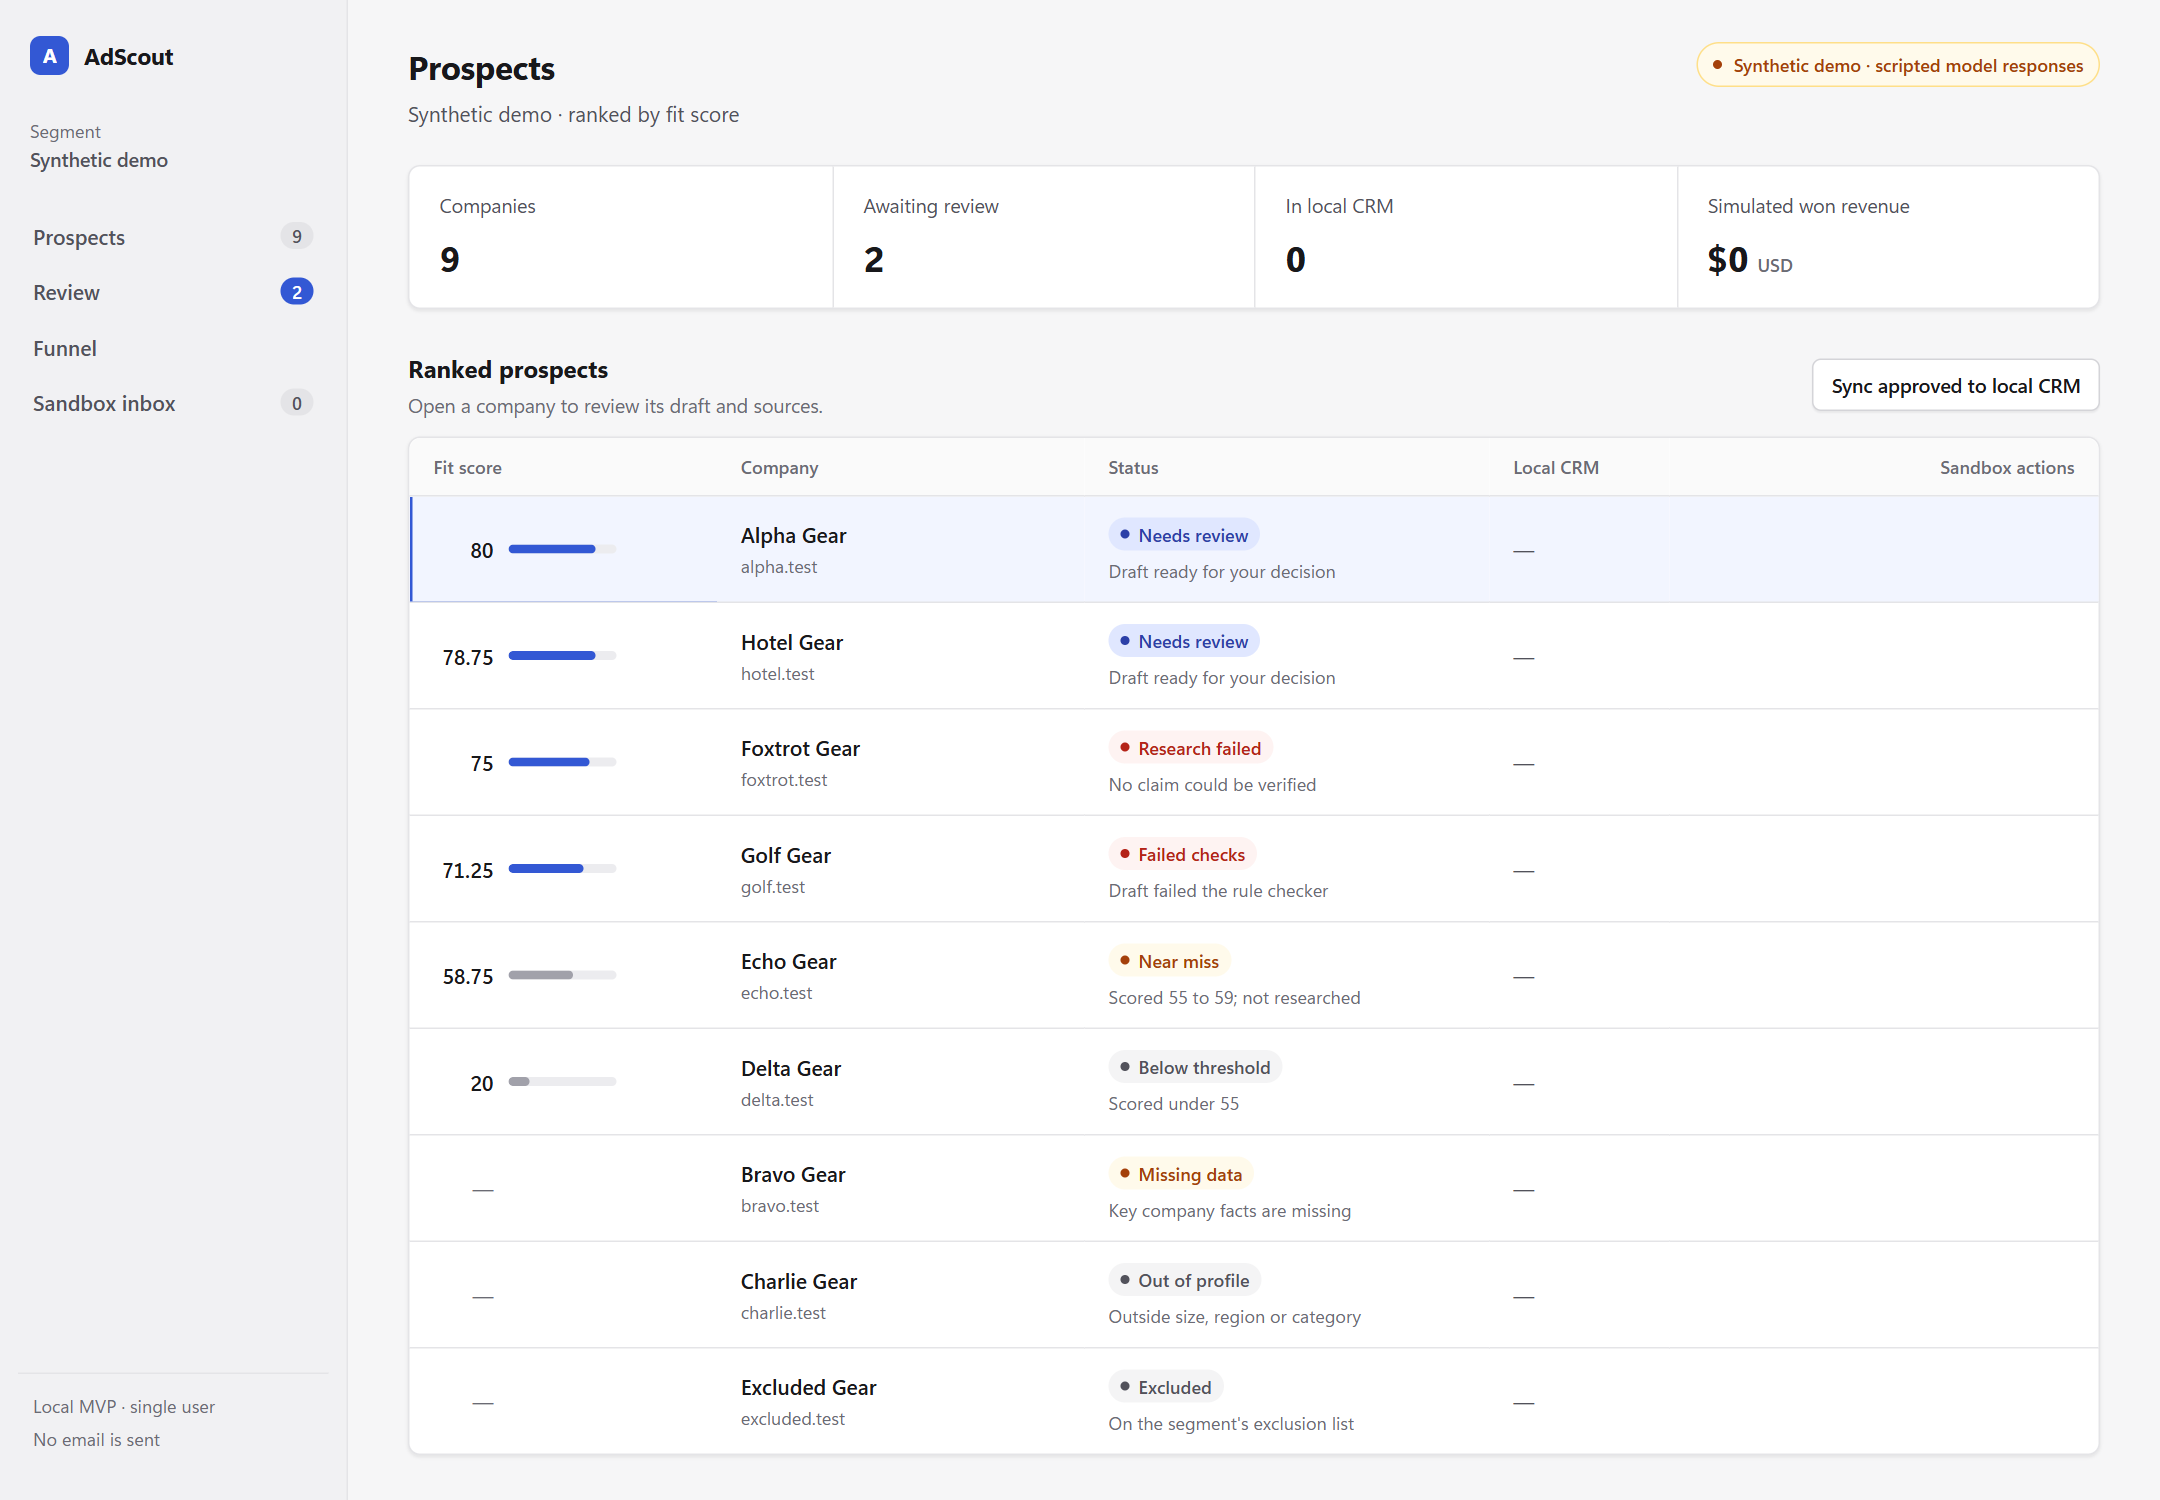
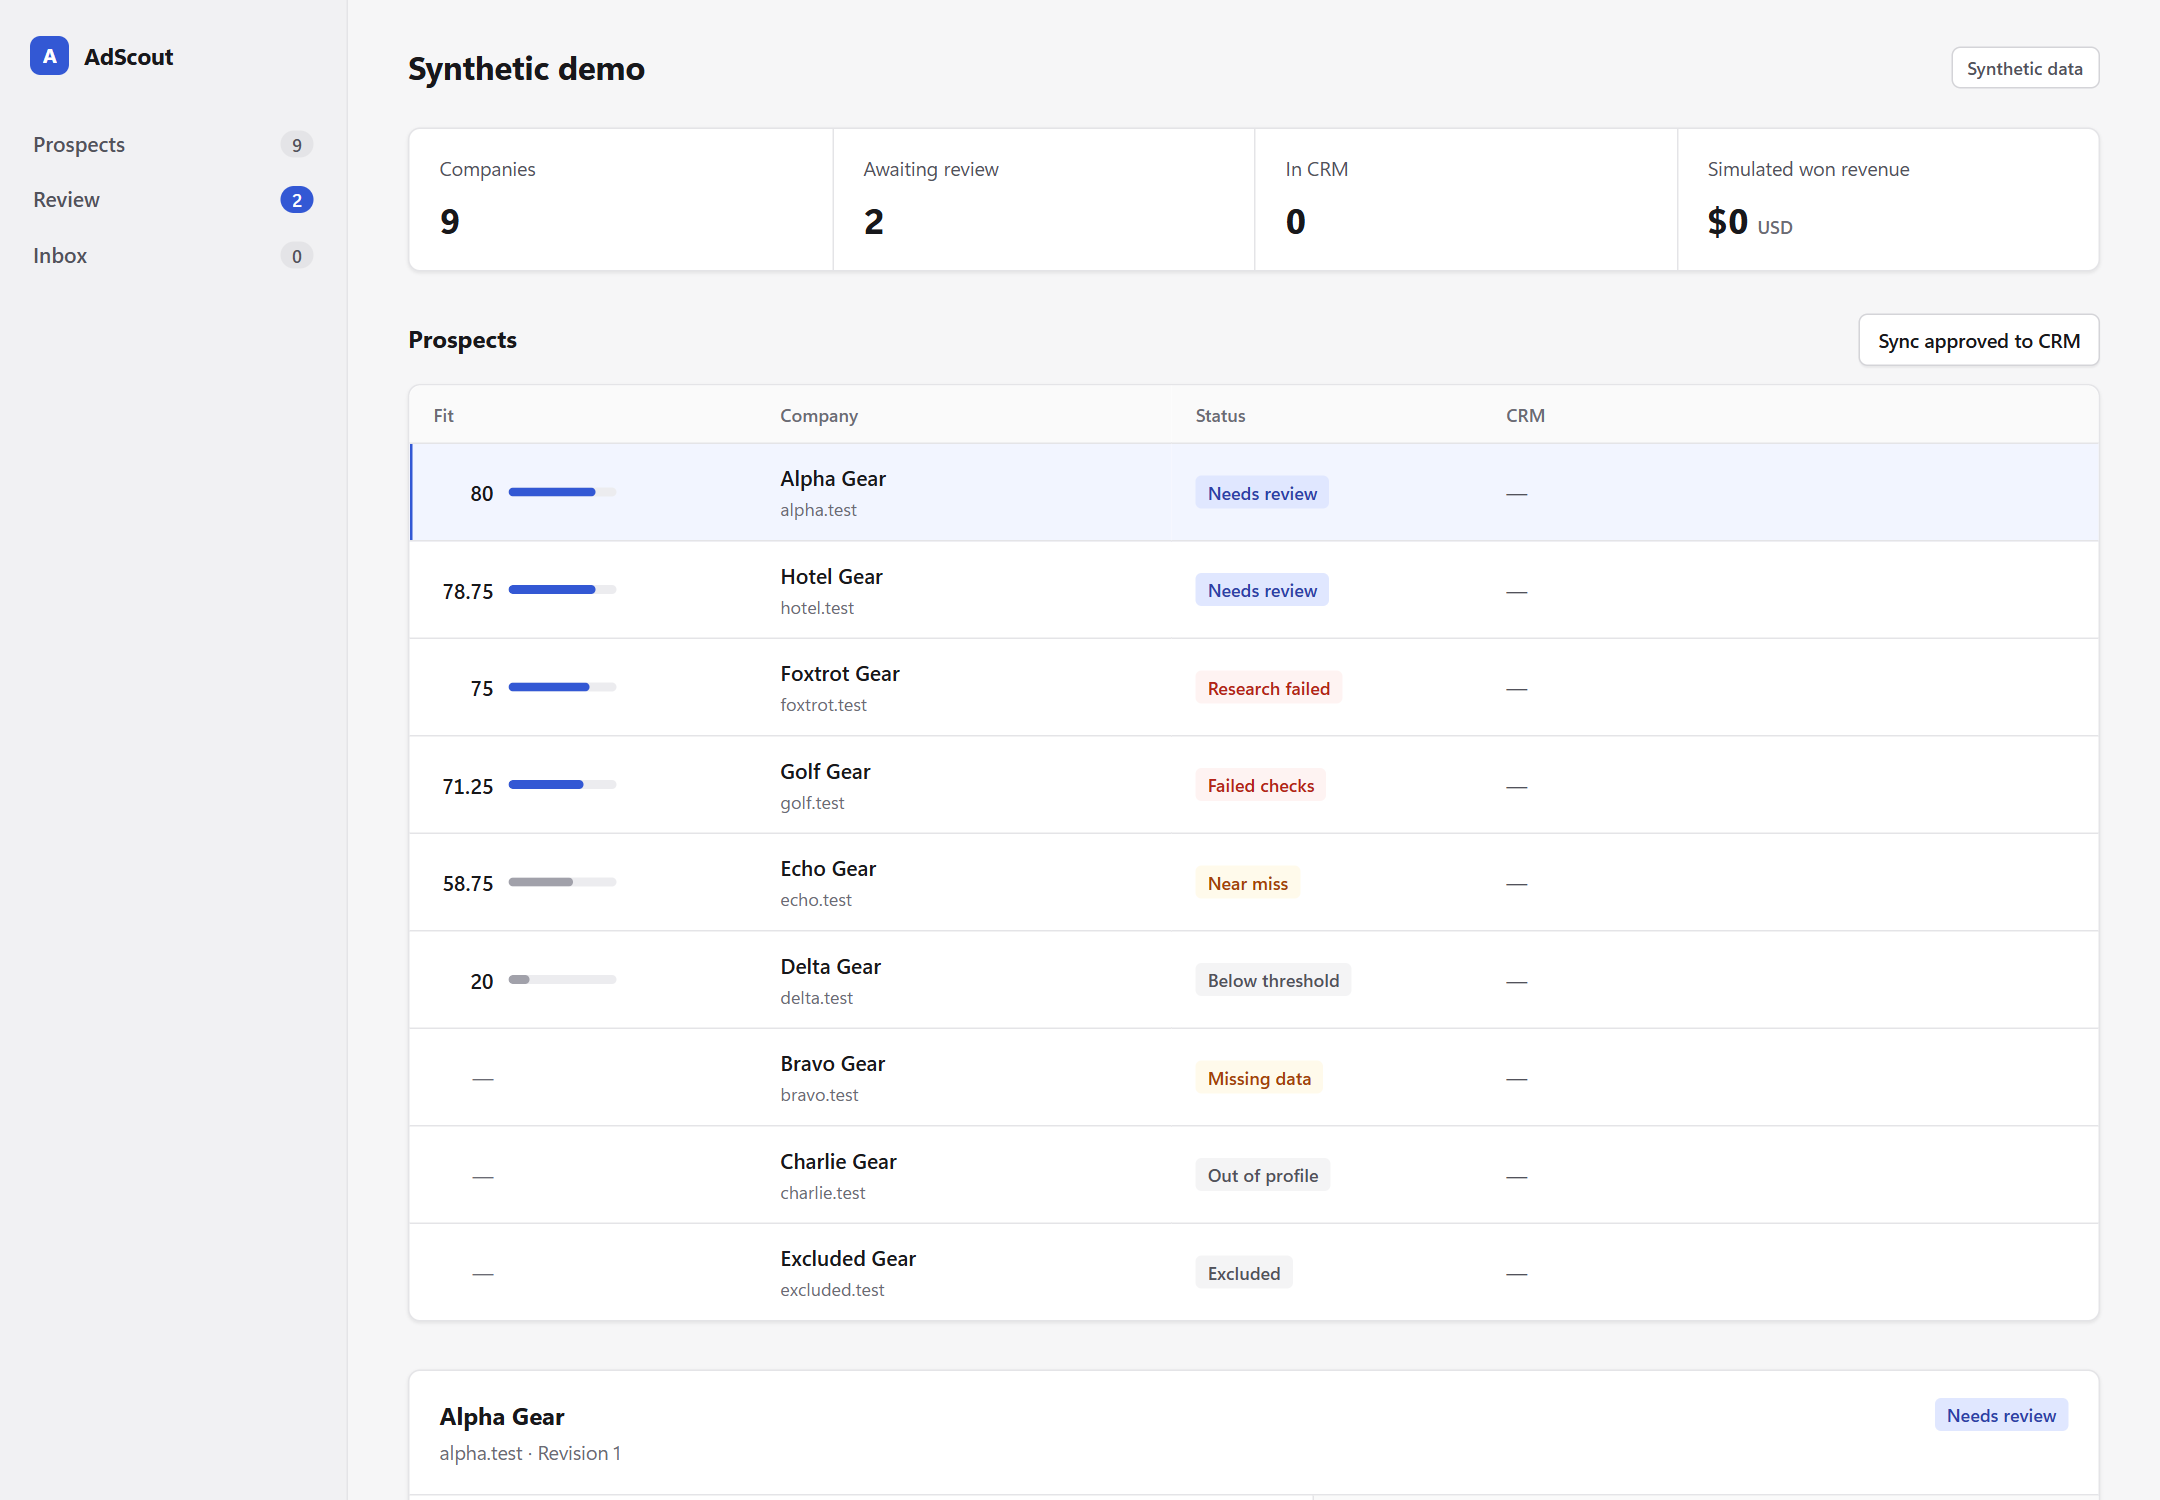
feat: strip the workspace down to the review process
Remove the funnel, footer, captions and status dots; keep prospects, review
and the sandbox inbox with plain labels.

diff --git a/src/adscout/workspace.css b/src/adscout/workspace.css
@@ -39,11 +39,10 @@ h1,h2,h3,h4,p{margin:0}
 
 /* Main */
 main{margin-left:232px;padding:28px 40px 48px;max-width:1440px}
-.topbar{display:flex;justify-content:space-between;align-items:flex-start;gap:24px;margin-bottom:24px}
+.topbar{display:flex;justify-content:space-between;align-items:center;gap:24px;margin-bottom:24px}
 .topbar h1{font-size:22px;font-weight:650;letter-spacing:-.01em}
 .topbar p{margin-top:4px;color:var(--text-2)}
-.mode{display:inline-flex;align-items:center;gap:8px;padding:5px 10px;border:1px solid var(--amber-line);background:var(--amber-bg);color:var(--amber);border-radius:999px;font-size:12px;font-weight:500;white-space:nowrap}
-.mode::before{content:"";width:6px;height:6px;border-radius:50%;background:currentColor}
+.mode{display:inline-flex;align-items:center;padding:4px 10px;border:1px solid var(--line-strong);background:var(--surface);color:var(--text-2);border-radius:var(--radius-sm);font-size:12px;font-weight:500;white-space:nowrap}
 
 /* Notices */
 .notice{display:flex;gap:10px;align-items:flex-start;padding:10px 14px;margin-bottom:20px;border:1px solid #b7e4c7;background:var(--green-bg);color:var(--green);border-radius:var(--radius);font-weight:500}
@@ -96,8 +95,7 @@ tbody tr.is-selected td:first-child{box-shadow:inset 2px 0 0 var(--accent)}
 .empty{padding:28px 20px;color:var(--text-2);text-align:center}
 
 /* Status pills */
-.pill{display:inline-flex;align-items:center;gap:6px;padding:2px 8px;border-radius:999px;font-size:12px;font-weight:500;white-space:nowrap;background:var(--grey-bg);color:var(--grey)}
-.pill::before{content:"";width:6px;height:6px;border-radius:50%;background:currentColor}
+.pill{display:inline-flex;align-items:center;padding:2px 8px;border-radius:4px;font-size:12px;font-weight:500;white-space:nowrap;background:var(--grey-bg);color:var(--grey)}
 .pill.blue{background:var(--blue-bg);color:var(--blue)}
 .pill.green{background:var(--green-bg);color:var(--green)}
 .pill.amber{background:var(--amber-bg);color:var(--amber)}

diff --git a/src/adscout/web.py b/src/adscout/web.py
@@ -3,7 +3,6 @@
 import argparse
 import contextlib
 import hmac
-import json
 import secrets
 import sqlite3
 from functools import partial
@@ -23,7 +22,6 @@ from adscout.workspace import (
     ActionRefused,
     claim_rows,
     decide,
-    draft_notes,
     get_draft,
     leads,
     review_digest,
@@ -70,14 +68,6 @@ FLAGS = {
     "critic_unresolved": "Critic concern unresolved",
     "research_partial": "Research partly failed",
 }
-STEPS = {
-    "source": "Sourced",
-    "enrich": "Enriched",
-    "rules": "Passed rules",
-    "score": "Qualified",
-    "research": "Researched",
-    "draft": "Drafted",
-}
 
 
 def pill(key: str) -> str:
@@ -117,10 +107,11 @@ def review(connection: sqlite3.Connection, draft_id: int, csrf: str) -> str:
         "".join(
             f'<li><span class="key">{e(c["claim_key"])}</span>'
             f'<span class="claim">{e(c["text"])}</span>'
-            f"<blockquote>{e(c['quote'])}</blockquote>{source_link(c['source_url'])}</li>"
+            + ("" if c["quote"] == c["text"] else f"<blockquote>{e(c['quote'])}</blockquote>")
+            + f"{source_link(c['source_url'])}</li>"
             for c in claims
         )
-        or '<li><span class="claim">No verified claims in this draft run.</span></li>'
+        or '<li><span class="claim">No verified claims.</span></li>'
     )
     flags = connection.execute(
         "SELECT flag, detail FROM lead_step_outcomes WHERE lead_id=? AND run_id=? "
@@ -152,14 +143,13 @@ def review(connection: sqlite3.Connection, draft_id: int, csrf: str) -> str:
     return (
         f'<section id="review" class="panel"><div class="review-head"><div>'
         f"<h2>{e(draft['name'])}</h2><p>{e(draft['domain'])} · Revision {draft['revision']}"
-        f" · {e(draft['data_mode'])} data</p></div>{pill(draft['status'])}</div>"
+        f"</p></div>{pill(draft['status'])}</div>"
         + (f'<div class="warnings">{warnings}</div>' if warnings else "")
         + '<div class="review-grid"><article><p class="label">Pitch draft</p>'
         f'<h3 class="subject">{e(draft["subject"])}</h3>'
         f'<pre class="message">{e(draft["body"])}</pre>{actions}</article>'
         f'<article><p class="label">Verified research</p><ol class="sources">{sources}</ol>'
-        "<details><summary>Checks and critic notes</summary>"
-        f'<pre class="notes">{e(draft_notes(draft))}</pre></details></article></div></section>'
+        "</article></div></section>"
     )
 
 
@@ -178,14 +168,10 @@ def render(
         (segment,),
     ).fetchone()
     mode = run["source"] if run else "no run"
-    demo_label = (
-        "Synthetic demo · scripted model responses" if mode in ("fixture", "stub") else mode
-    )
+    demo_label = "Synthetic data" if mode in ("fixture", "stub") else mode.capitalize()
     pending = sum(r["status"] == "pending_approval" for r in rows)
     crm = sum(bool(r["in_crm"]) for r in rows)
     won = sum(r["amount_cents"] or 0 for r in rows if r["stage"] == "won")
-    cost = json.loads(run["cost_summary_json"] or "{}") if run else {}
-    total_cost = cost.get("total", {}).get("cost_usd", 0)
     if draft_id is None:
         draft_id = next((r["draft_id"] for r in rows if r["status"] == "pending_approval"), None)
     if draft_id is not None and get_draft(connection, draft_id)["segment_id"] != segment:
@@ -206,7 +192,7 @@ def render(
                 "Place in sandbox",
                 style="secondary small",
             )
-        if row["in_crm"]:
+        if row["in_crm"] and row["stage"] != "won":
             actions += form(
                 "deal",
                 csrf,
@@ -219,35 +205,21 @@ def render(
         else:
             fit = f"<b>{row['score']:g}</b>" + bar(row["score"] / 100, muted=row["score"] < 60)
         key = row["status"] or row["exit_reason"] or "sourced"
-        detail = STATUS.get(key, ("", "", ""))[2]
         if row["stage"] == "won":
-            detail = f"Simulated deal won · ${(row['amount_cents'] or 0) / 100:,.0f}"
-        crm_cell = (
-            '<span class="crm synced">Synced</span>'
-            if row["in_crm"]
-            else '<span class="crm">—</span>'
-        )
+            crm_cell = (
+                f'<span class="crm synced">Won ${(row["amount_cents"] or 0) / 100:,.0f}</span>'
+            )
+        elif row["in_crm"]:
+            crm_cell = '<span class="crm synced">Synced</span>'
+        else:
+            crm_cell = '<span class="crm">—</span>'
         selected = ' class="is-selected"' if row["draft_id"] == draft_id else ""
         table_rows.append(
             f'<tr{selected}><td><div class="fit">{fit}</div></td>'
             f'<td><div class="company">{name}<small>{e(row["domain"])}</small></div></td>'
-            f'<td>{pill(key)}<span class="detail">{e(detail)}</span></td>'
+            f"<td>{pill(key)}</td>"
             f'<td>{crm_cell}</td><td><div class="row-actions">{actions}</div></td></tr>'
         )
-    steps = connection.execute(
-        "SELECT step, entering, kept FROM step_runs WHERE run_id=? ORDER BY seq",
-        (run["run_id"] if run else "",),
-    ).fetchall()
-    top = max([s["entering"] or 0 for s in steps] + [1])
-    bars = (
-        "".join(
-            f'<div class="funnel-row"><span class="step">{e(STEPS.get(s["step"], s["step"]))}'
-            f"</span>{bar((s['kept'] or 0) / top)}<b>{s['kept'] or 0}</b>"
-            f'<span class="muted">of {s["entering"] or 0}</span></div>'
-            for s in steps
-        )
-        or '<p class="empty">No run yet. Start with <code>adscout demo</code>.</p>'
-    )
     messages = connection.execute(
         "SELECT m.*, EXISTS(SELECT 1 FROM sandbox_suppressions s WHERE s.lead_id=m.lead_id) "
         "suppressed FROM sandbox_messages m JOIN leads l ON l.lead_id=m.lead_id "
@@ -265,12 +237,10 @@ def render(
             + f'</summary><div class="inbox-body"><p class="inbox-meta">To {e(m["destination"])}'
             f" · From {e(m['sender'])} · {e(str(m['created_at'])[:16].replace('T', ' '))}</p>"
             f'<pre class="message">{e(m["body"])}</pre>'
-            f'<a href="/unsubscribe?id={e(m["message_id"])}">'
-            "Unsubscribe this synthetic lead</a></div></details>"
+            f'<a href="/unsubscribe?id={e(m["message_id"])}">Unsubscribe</a></div></details>'
             for m in messages
         )
-        or '<p class="empty">No messages yet. Approve a draft, sync it to the local CRM, '
-        "then place it in the sandbox.</p>"
+        or '<p class="empty">No messages.</p>'
     )
     review_html = review(connection, draft_id, csrf) if draft_id is not None else ""
     banner = (
@@ -278,51 +248,33 @@ def render(
         if notice
         else ""
     )
-    sync = form("sync", csrf, {}, "Sync approved to local CRM", style="secondary")
-    table_body = (
-        "".join(table_rows)
-        or '<tr><td class="empty" colspan="5">No prospects yet. Run the demo.</td></tr>'
-    )
-    run_status = e(run["status"] if run else "none")
-    cost_label = "Estimated fixture model cost" if mode != "live" else "Recorded model spend"
+    sync = form("sync", csrf, {}, "Sync approved to CRM", style="secondary")
+    table_body = "".join(table_rows) or '<tr><td class="empty" colspan="5">No prospects.</td></tr>'
     title = segment.replace("-", " ").capitalize()
     attention = " attention" if pending else ""
     return page(
-        "AdScout workspace",
+        "AdScout",
         f"""<aside class="sidebar">
 <a class="brand" href="/"><span class="brand-mark">A</span>AdScout</a>
-<p class="workspace-name">Segment<strong>{e(title)}</strong></p>
 <nav class="nav" aria-label="Workspace">
 <a href="#prospects">Prospects<span class="count">{len(rows)}</span></a>
 <a href="#review">Review<span class="count{attention}">{pending}</span></a>
-<a href="#funnel">Funnel</a>
-<a href="#inbox">Sandbox inbox<span class="count">{len(messages)}</span></a></nav>
-<div class="sidebar-foot"><span>Local MVP · single user</span><span>No email is sent</span></div>
+<a href="#inbox">Inbox<span class="count">{len(messages)}</span></a></nav>
 </aside><main>
-<header class="topbar"><div><h1>Prospects</h1><p>{e(title)} · ranked by fit score</p></div>
-<span class="mode">{e(demo_label)}</span></header>{banner}
+<header class="topbar"><h1>{e(title)}</h1><span class="mode">{e(demo_label)}</span></header>
+{banner}
 <dl class="stats"><div class="stat"><dt>Companies</dt><dd>{len(rows)}</dd></div>
 <div class="stat"><dt>Awaiting review</dt><dd>{pending}</dd></div>
-<div class="stat"><dt>In local CRM</dt><dd>{crm}</dd></div>
+<div class="stat"><dt>In CRM</dt><dd>{crm}</dd></div>
 <div class="stat"><dt>simulated won revenue</dt><dd>${won / 100:,.0f}<small>USD</small></dd></div>
 </dl>
-<section id="prospects"><div class="section-head"><div><h2>Ranked prospects</h2>
-<p>Open a company to review its draft and sources.</p></div>{sync}</div>
-<div class="panel panel-scroll"><table><thead><tr><th>Fit score</th><th>Company</th>
-<th>Status</th><th>Local CRM</th><th><span class="row-actions">Sandbox actions</span></th>
+<section id="prospects"><div class="section-head"><h2>Prospects</h2>{sync}</div>
+<div class="panel panel-scroll"><table><thead><tr><th>Fit</th><th>Company</th>
+<th>Status</th><th>CRM</th><th></th>
 </tr></thead><tbody>{table_body}</tbody></table></div></section>
 {review_html}
-<section id="funnel"><div class="section-head"><div><h2>Run funnel</h2>
-<p>Companies kept at each step of the latest pipeline run · {run_status}</p></div></div>
-<div class="panel"><div class="funnel">{bars}</div>
-<div class="panel-foot"><span>{cost_label}: <strong>${float(total_cost):.6f} USD</strong></span>
-<span>Revenue is a simulated scenario entered after CRM sync, not a sales result.</span></div>
-</div></section>
-<section id="inbox"><div class="section-head"><div><h2>Sandbox inbox</h2>
-<p>Synthetic messages stored on this PC. No email is sent.</p></div></div>
+<section id="inbox"><div class="section-head"><h2>Sandbox inbox</h2></div>
 <div class="panel inbox">{inbox}</div></section>
-<footer>AdScout portfolio MVP · synthetic companies and scripted model responses ·
-live quality studies and cloud integrations are deferred</footer>
 </main>""",
     )
 

diff --git a/tests/test_workspace.py b/tests/test_workspace.py
@@ -179,7 +179,6 @@ def test_render_escapes_draft_and_evidence(db) -> None:
     assert "&lt;script&gt;" in page and "<script>" not in page
     assert "&lt;img onerror=boom&gt;" in page
     assert "https://alpha.test" in page and "Verified research" in page
-    assert "Estimated fixture model cost" in page and "$0.000000" not in page
     hotel = pending(connection, "hotel.test")
     page = render(connection, SEGMENT, "csrf", hotel["draft_id"])
     assert "<strong>Critic concern unresolved</strong>" in page

diff --git a/DESIGN.md b/DESIGN.md
@@ -7,12 +7,12 @@ actions, selection and progress, white panels with 1px borders and a faint shado
 #f6f6f7 page, a light grey sidebar with counts, and the system UI font at 14px with
 tabular numerals.
 
-Status is a pill with a dot and a plain label (Needs review, Approved, Near miss), toned
-blue, green, amber, red or grey, plus a one-line reason beneath. Codes never appear raw.
-An amber pill marks the synthetic demo; revenue is always labelled simulated.
+Status is a square-cornered pill with a plain label (Needs review, Approved, Near miss),
+toned blue, green, amber, red or grey. No dots, no explanatory captions; codes never appear
+raw. A plain "Synthetic data" badge marks the demo; revenue is always labelled simulated.
 
 The ranked table leads into a review panel: the draft on the left, keyed source quotes on
-the right, approve and reject at the foot of the draft. Funnel bars and the sandbox inbox
-follow on the same page. The page has no scripts and no inline styles (the content policy
-forbids them), so bar widths use 5% step classes. Under 860px the sidebar becomes a top
-row, review columns stack and the table scrolls in its own panel.
+the right, approve and reject at the foot of the draft. The sandbox inbox follows on the
+same page; there is no funnel or footer. The page has no scripts and no inline styles (the
+content policy forbids them), so bar widths use 5% step classes. Under 860px the sidebar
+becomes a top row, review columns stack and the table scrolls in its own panel.
